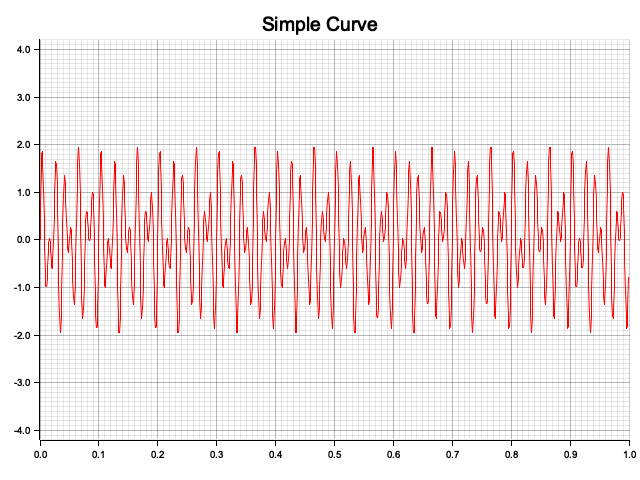
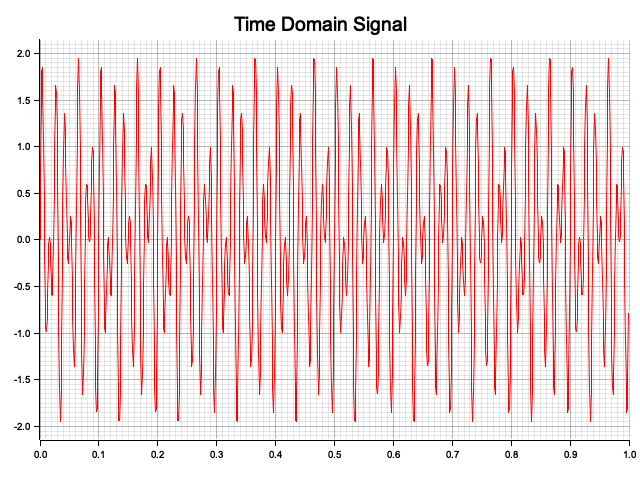
raw signal dynamic y-lims

diff --git a/src/main.rs b/src/main.rs
@@ -5,6 +5,7 @@ use std::f64::consts::PI;
 use rustfft::num_traits::Zero;
 
 fn main() -> Result<(), Box<dyn std::error::Error>> {
+    // Defining current static controls
     let curve_points: usize = 1000;
     let sampling_rate: f64 = 0.001;
     let frequency1: f64 = 50.0;
@@ -19,17 +20,37 @@ fn main() -> Result<(), Box<dyn std::error::Error>> {
         .map(|&x| ((2.0 * PI * frequency1 * x).sin() + (2.0 * PI * frequency2 * x).sin()))
         .collect();
 
+    let mut min_value_y: f64 = y_values
+        .iter()
+        .cloned()
+        .min_by(|a, b| a.partial_cmp(b).unwrap())
+        .unwrap();
+    let mut max_value_y: f64 = y_values
+        .iter()
+        .cloned()
+        .max_by(|a, b| a.partial_cmp(b).unwrap())
+        .unwrap();
+
+
+    // Changing the plot y limits to include 10% more values from the minimum / maximum values in the array
+    let min_y_10_percent: f64 = 0.1 * min_value_y;
+    min_value_y += min_y_10_percent;
+
+    let max_y_10_percent: f64 = 0.1 * max_value_y;
+    max_value_y += max_y_10_percent;
+
+
     let root_area = BitMapBackend::new("simple_curve.png", (640, 480)).into_drawing_area();
     root_area.fill(&WHITE)?;
     let mut chart = ChartBuilder::on(&root_area)
-        .caption("Simple Curve", ("Arial", 24).into_font())
+        .caption("Time Domain Signal", ("Arial", 24).into_font())
         .margin(10)
         .x_label_area_size(30)
         .y_label_area_size(30)
-        .build_cartesian_2d(0f64..(sampling_rate * curve_points as f64), -4.2f64..4.2f64)?;
+        .build_cartesian_2d(0f64..(sampling_rate * curve_points as f64), min_value_y..max_value_y)?;
 
     chart.configure_mesh().draw()?;
-
+    
     chart.draw_series(LineSeries::new(
         x_values.iter().zip(y_values.iter()).map(|(&x, &y)| (x, y)),
         &RED,
@@ -56,7 +77,7 @@ fn main() -> Result<(), Box<dyn std::error::Error>> {
     let root_area = BitMapBackend::new("fft_plot.png", (640, 480)).into_drawing_area();
     root_area.fill(&WHITE)?;
     let mut chart = ChartBuilder::on(&root_area)
-        .caption("FFT of Simple Curve", ("Arial", 24).into_font())
+        .caption("Amplitude Spectrum of Signal (FFT)", ("Arial", 24).into_font())
         .margin(10)
         .x_label_area_size(30)
         .y_label_area_size(30)
